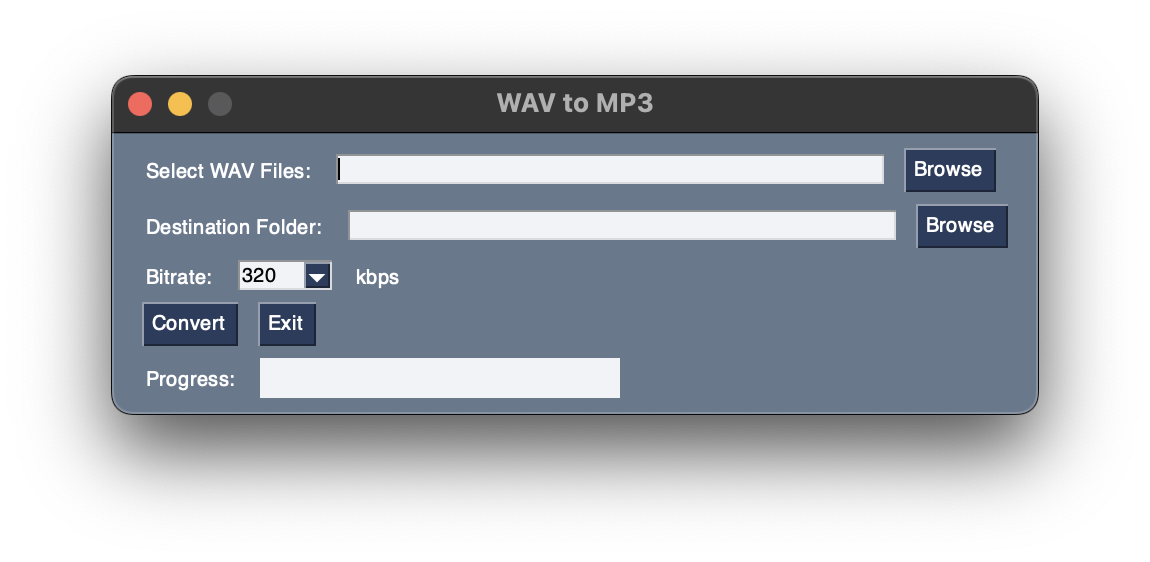
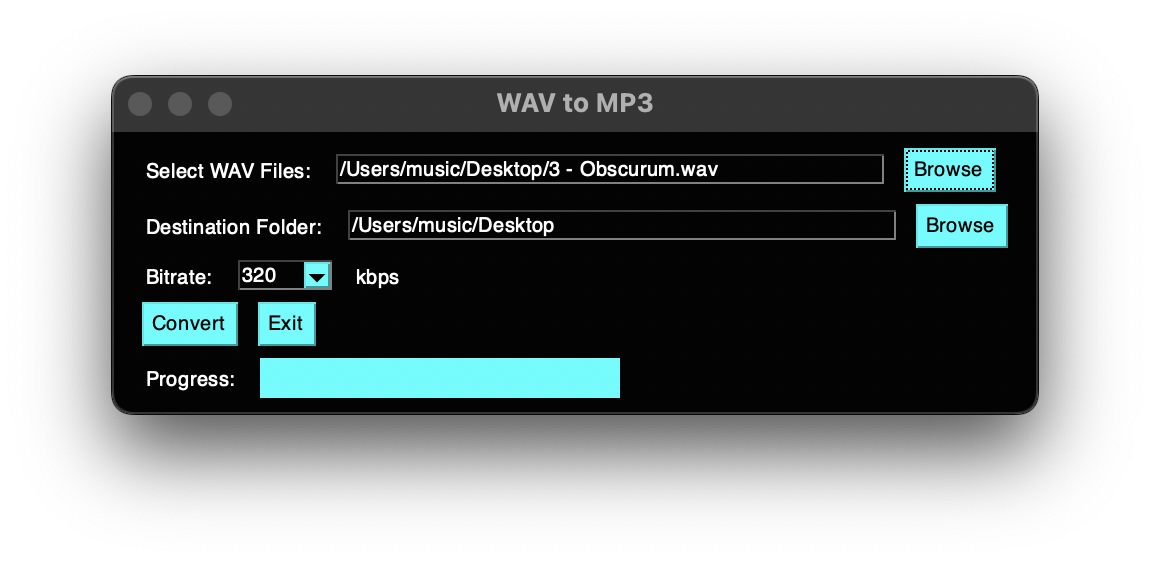
update color and readme

diff --git a/mp3.py b/mp3.py
@@ -11,16 +11,40 @@ def convert_files(files, destination, bitrate, window, progress_bar):
         progress = (count / total_files) * 100
         window['progressbar'].update_bar(progress)
 
+# Custom color definitions
+background_color = '#000000'
+text_color = '#ffffff'  # White color
+input_text_color = '#ffffff'  # White color for input text
+button_color = ('black', '#00ffff')  # Text, Background
+progress_bar_color = ('#f2f2f2', '#00ffff')  # (border_color, bar_color)
+
+# Set the theme colors for the window
+sg.theme('Dark')
+sg.set_options(
+    background_color=background_color,
+    text_element_background_color=background_color,
+    element_background_color=background_color,
+    input_elements_background_color=background_color,  # Use background color for input elements
+    progress_meter_color=progress_bar_color,
+    button_color=button_color,
+    text_color=text_color,
+    input_text_color=input_text_color,
+    scrollbar_color=None
+)
+
+# Define the layout of the GUI
 layout = [
-    [sg.Text('Select WAV Files:'), sg.InputText(key='FILE_LIST'), sg.FilesBrowse(file_types=(("WAV Files", "*.wav"),), target='FILE_LIST')],
-    [sg.Text('Destination Folder:'), sg.InputText(key='DEST_FOLDER'), sg.FolderBrowse(target='DEST_FOLDER')],
-    [sg.Text('Bitrate:'), sg.Combo(['320', '256', '128'], default_value='320', size=(5, 1), key='BITRATE'), sg.Text('kbps')],
-    [sg.Button('Convert'), sg.Button('Exit')],
-    [sg.Text('Progress:'), sg.ProgressBar(max_value=100, orientation='h', size=(20, 20), key='progressbar')]
+    [sg.Text('Select WAV Files:', text_color=text_color), sg.InputText(key='FILE_LIST', text_color=input_text_color, background_color=background_color), sg.FilesBrowse(file_types=(("WAV Files", "*.wav"),), target='FILE_LIST', button_color=button_color)],
+    [sg.Text('Destination Folder:', text_color=text_color), sg.InputText(key='DEST_FOLDER', text_color=input_text_color, background_color=background_color), sg.FolderBrowse(target='DEST_FOLDER', button_color=button_color)],
+    [sg.Text('Bitrate:', text_color=text_color), sg.Combo(['320', '256', '128'], default_value='320', size=(5, 1), key='BITRATE', text_color=text_color, background_color=background_color), sg.Text('kbps', text_color=text_color)],
+    [sg.Button('Convert', button_color=button_color), sg.Button('Exit', button_color=button_color)],
+    [sg.Text('Progress:', text_color=text_color), sg.ProgressBar(max_value=100, orientation='h', size=(20, 20), key='progressbar', bar_color=progress_bar_color)]
 ]
 
-window = sg.Window('WAV to MP3', layout)
+# Create the window
+window = sg.Window('WAV to MP3', layout, grab_anywhere=True)
 
+# Event loop to process events and get input values
 while True:
     event, values = window.read()
     if event in (sg.WIN_CLOSED, 'Exit'):
@@ -31,4 +55,5 @@ while True:
         bitrate = values['BITRATE']
         convert_files(files, destination, bitrate, window, window['progressbar'])
 
+# Close the window
 window.close()

diff --git a/README.md b/README.md
@@ -3,14 +3,14 @@
 A free open-source WAV to MP3 converter. Supports batch file selction.
 Python GUI application converts WAV files to MP3 format.
 For more of my projects keep and eye on my site: 
-https://bigandtallrecords.com/
+https://bigandtallrecords.com/code
 
 ## Requirements
 
 - Python 3.10
 - [PYsimplegui] https://pypi.org/project/PySimpleGUI/
 - [ffmpeg](https://ffmpeg.org/)
-- make sure both brew install and ffmpeg are in path
+- for Mac make sure both brew and ffmpeg are in path
 
 ## Installation
 
@@ -31,4 +31,4 @@ https://bigandtallrecords.com/
  ![Alt text](images/mp3.png)
 
  If you like my open-source software you may also like my music
- https://bigandtallrecords.com/
+ https://bigandtallrecords.com/music
